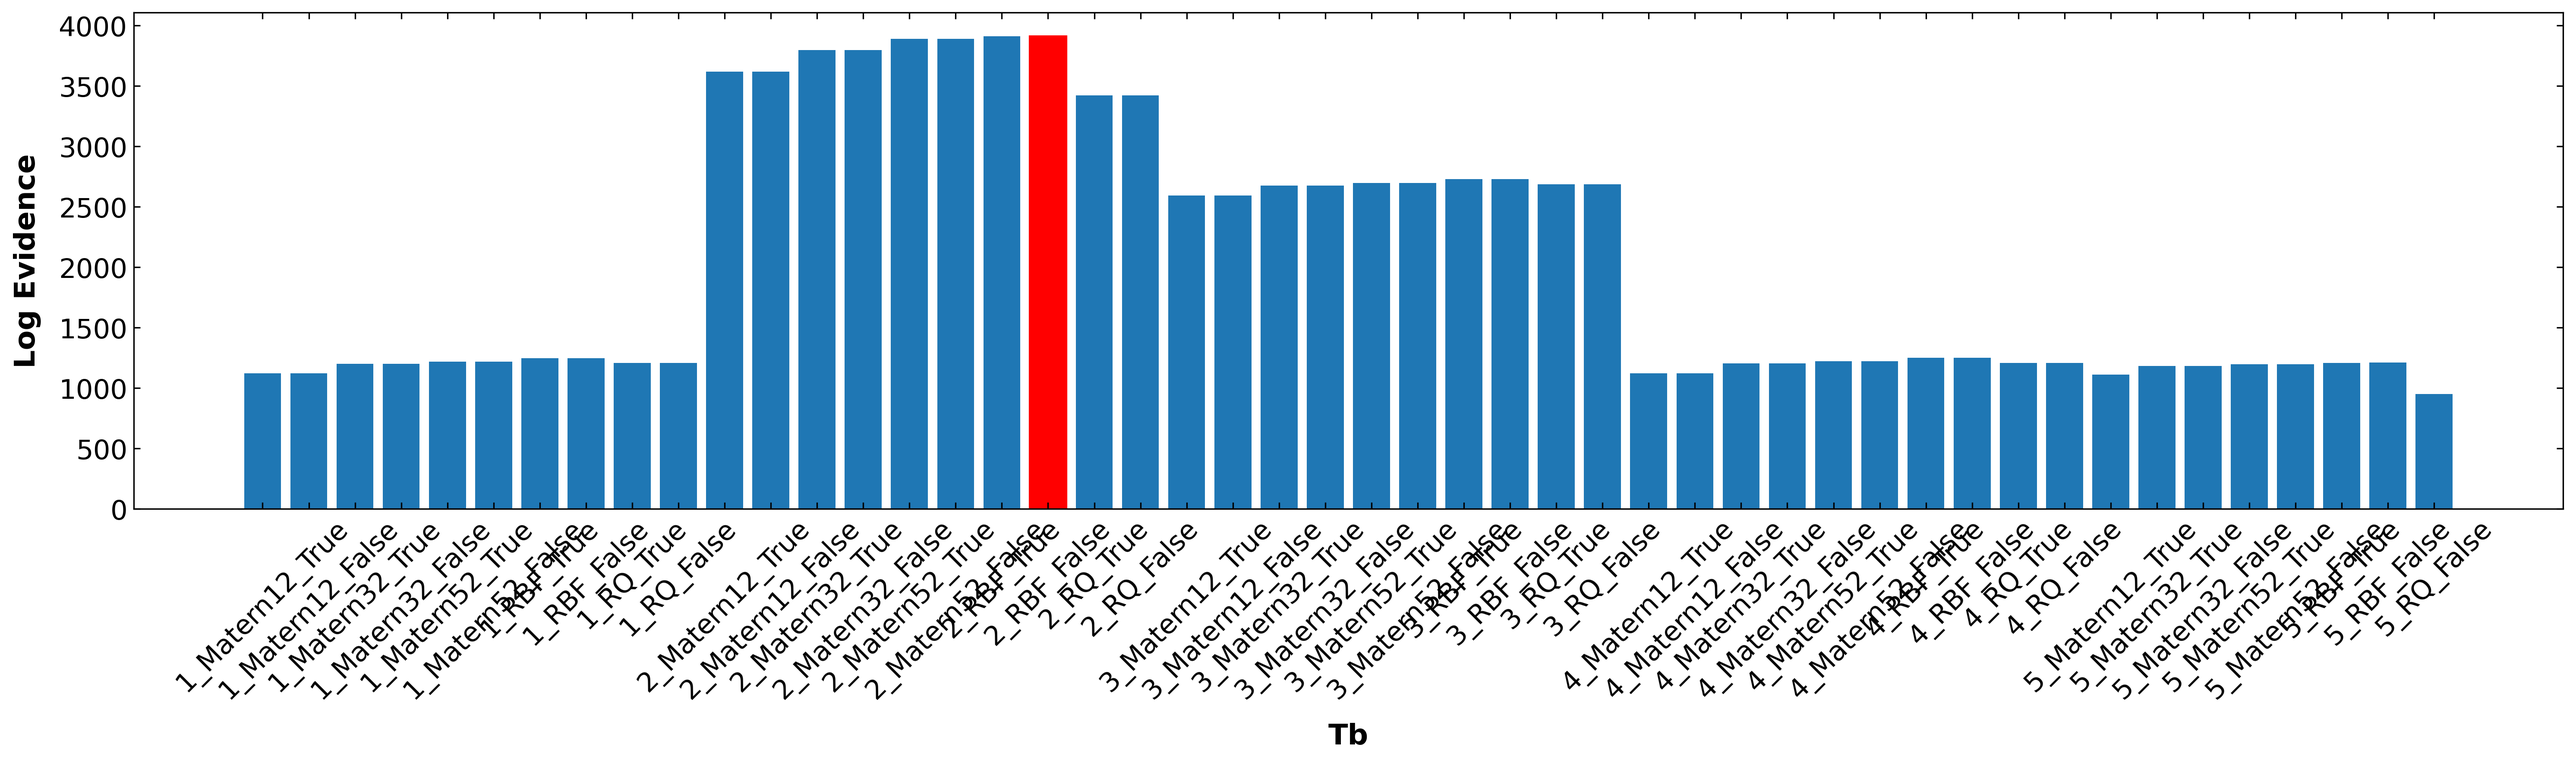
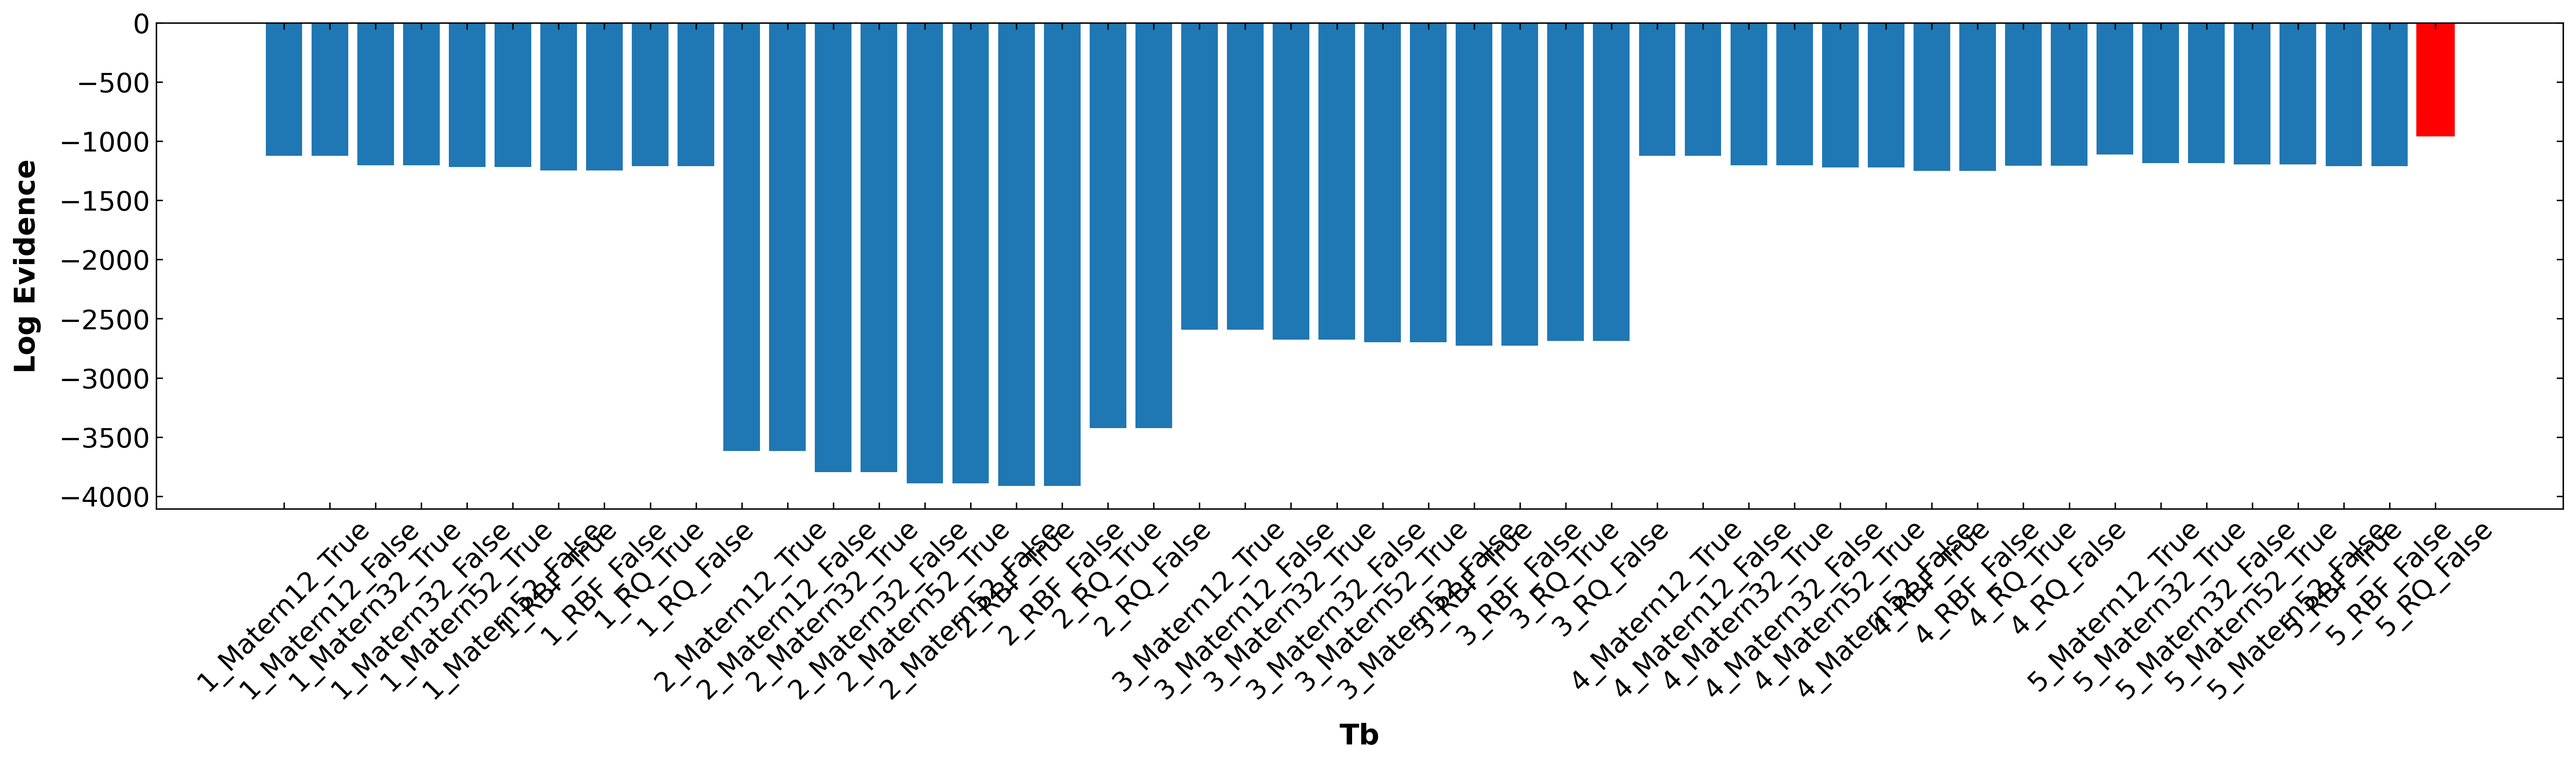
updated bar chart for model selection

diff --git a/plot_lml_4real.py b/plot_lml_4real.py
@@ -2,38 +2,94 @@ import pandas as pd
 import numpy as np
 import matplotlib.pyplot as plt
 import global_plot_settings
+from matplotlib.patches import Patch
 
 global_plot_settings.set_plot_settings()
 
 # Read the CSV file containing the LML values
 df = pd.read_csv('lml_values.csv')
 
+# Function to rename kernels
+def rename_kernel(kernel):
+    if kernel == "Matern52":
+        return r"Matérn, $\nu = 5/2$"
+    elif kernel == "Matern32":
+        return r"Matérn, $\nu = 3/2$"
+    elif kernel == "Matern12":
+        return r"Matérn, $\nu = 1/2$"
+    elif kernel == "RBF":
+        return "SE"
+    else:
+        return kernel
+
 # Create a bar chart for each thermophysical property
 for property in df['Property'].unique():
-    # Filter the DataFrame for the current property
+   
+    # Filter the DataFrame for the current thermophysical property
     property_df = df[df['Property'] == property]
+
+    # Filter the DataFrame for the isotropic kernel (flag = False)
+    filtered_df = property_df[property_df['Flag'] == False]
+
+    # Get unique models and kernels
+    models = filtered_df['Model'].unique()
+    kernels = filtered_df['Kernel'].unique()
     
-    # Create labels by concatenating Model, Kernel, and Flag as strings
-    labels = property_df['Model'].astype(str) + '_' + property_df['Kernel'] + '_' + property_df['Flag'].astype(str)
+    # Rename the kernels using the function
+    renamed_kernels = [rename_kernel(kernel) for kernel in kernels]
     
-    # Find the index of the maximum LML value
-    max_index = (-property_df['LML']).idxmax()
+    # Set the positions and width for the bars
+    bar_width = 0.15
+    index = np.arange(len(models))
     
-    # Plot the bar chart
-    plt.figure(figsize=(20, 6))
-    bars = plt.bar(labels, -property_df['LML'])
+    # Define your selected colors with the new color replacing mustard yellow
+    selected_colors = ['#b1c800', '#336699', '#6699ff', '#ff9999', '#66cc99']
     
-    # Highlight the bar with the maximum LML value
-    max_label = f"{property_df.loc[max_index, 'Model']}_{property_df.loc[max_index, 'Kernel']}_{property_df.loc[max_index, 'Flag']}"
-    bars[labels.tolist().index(max_label)].set_color('red')
+    # Create a bar chart for each kernel
+    plt.figure(figsize=(10, 4))
     
-    plt.xlabel(property)
+    for i, kernel in enumerate(kernels):
+        # Filter data for the specific kernel
+        kernel_df = filtered_df[filtered_df['Kernel'] == kernel]
+        
+        # Extract LML values and corresponding model numbers
+        lml_values = kernel_df['LML'].values
+        model_indices = [np.where(models == model)[0][0] for model in kernel_df['Model']]
+        
+        # Offset the bar positions by multiplying i by bar_width
+        bars = plt.bar(index + i * bar_width, lml_values, bar_width, label=rename_kernel(kernel), 
+                       color=selected_colors[i], edgecolor='black')  # Add black edgecolor
+        
+        # Add LML value callouts above each bar
+        for bar, value in zip(bars, lml_values):
+            plt.text(bar.get_x() + bar.get_width() / 2, bar.get_height(),
+                     f'{value:.2f}', ha='center', va='bottom', fontsize=9, color='black')
+
+    # Highlight the bar with the maximum LML value only once
+    max_index = filtered_df['LML'].idxmax()
+    max_model = filtered_df.loc[max_index, 'Model']
+    max_kernel = filtered_df.loc[max_index, 'Kernel']
+    max_model_idx = np.where(models == max_model)[0][0]
+    max_kernel_idx = kernels.tolist().index(max_kernel)
+    
+    # Plot the max value in the same color but with a hatch and black outline
+    plt.bar(index[max_model_idx] + max_kernel_idx * bar_width,
+            filtered_df.loc[max_index, 'LML'],
+            bar_width, color=selected_colors[max_kernel_idx], hatch='*', edgecolor='black')
+
+    # Create a custom legend entry for the "Optimal" bar with a black outline
+    optimal_patch = Patch(facecolor='white', edgecolor='black', hatch='*', label='Optimal')
+    
+    # Add labels and title
+    plt.xlabel('Model')
     plt.ylabel('Log Evidence')
-    plt.xticks(rotation=45)
+    plt.xticks(index + bar_width * (len(kernels) - 1) / 2, models)
+    
+    # Include the custom "Optimal" patch and kernel patches with black outlines in the legend
+    plt.legend(loc='lower right', handles=[Patch(facecolor=selected_colors[i], edgecolor='black', label=renamed_kernels[i]) for i in range(len(kernels))] + [optimal_patch])
     plt.tight_layout()
     
     # Save the plot as a PNG file
     plt.savefig(f'lml_bar_chart_{property}.png')
     plt.close()
-
-print("Bar charts saved for each thermophysical property.")
+    exit()

diff --git a/credible_intervals.py b/credible_intervals.py
@@ -2,6 +2,8 @@ import os
 import numpy as np
 import pandas as pd
 import matplotlib.pyplot as plt
+import ast
+import re
 
 
 # Names of thermophysical properties
@@ -23,11 +25,42 @@ for loopA, property in enumerate(phys_property):
         # Read in files
         observations    = np.loadtxt(os.path.join(results, property, property + '_Y_'+ set_type +'_true.txt'))
         predictions     = np.loadtxt(os.path.join(results, property, property + '_Y_'+ set_type +'_pred.txt'))
-        credible_ints   = np.loadtxt(os.path.join(results, property, property + '_Y_'+ set_type +'_pred_95CI.txt'))
-        mol_weight      = np.loadtxt(os.path.join(results, property, 'model_4', set_type+'_data.csv'), skiprows = 1, usecols = 0, delimiter = ',')
-       
-        plt.errorbar(observations, predictions, credible_ints, ecolor='k', fmt='ro', markerfacecolor = 'w', label = '95% CI')
-        plt.errorbar(mol_weight, predictions, credible_ints, ecolor='k', fmt='ko', markerfacecolor = 'w', label = '95% CI')
-        plt.legend()
-        plt.show()
-        exit()
+
+        # Assume 'results' and 'property' are defined elsewhere in your code
+        filename = os.path.join(results, property, 'model_4', 'model_summary.txt')
+
+
+        # The file format includes complex data structures like NumPy arrays, 
+        # which aren't easily parsed by standard tools. This complexity requires 
+        # special handling, which isn't straightforward.
+
+        # The format mixes dictionary-like structures with additional metadata, 
+        # making it harder to split and parse correctly. 
+        # If the format were more standardized (e.g., using JSON or YAML), parsing would be simpler.
+
+        # Instead of using a standard serialization format like JSON, YAML, or even Python's pickle, 
+        # the data is saved as a raw string with Python-specific constructs. 
+        # This makes it less portable and more difficult to interpret without executing the code.
+
+        # with open(filename, 'r') as file:
+        #     data = file.read()
+
+        # # Split the data into dictionary part and metadata part
+        # dict_part, meta_part = data.split("Condition Number:")
+
+        # # Define a regex pattern to match the dictionary entries
+        # pattern = r"'?([^:]+)'?\s*:\s*(array\(.*?\))"
+
+        # # Find all matches in the dictionary part
+        # matches = re.findall(pattern, dict_part)
+
+        # # Convert matches to a dictionary, passing 'array' from numpy to eval
+        # data_dict = {key.strip(): eval(value, {"array": np.array}) for key, value in matches}
+
+        # # Convert the dictionary to a DataFrame
+        # df = pd.DataFrame.from_dict(data_dict, orient='index')
+
+        # # Display the DataFrame
+        # print(df)
+
+        # exit()
